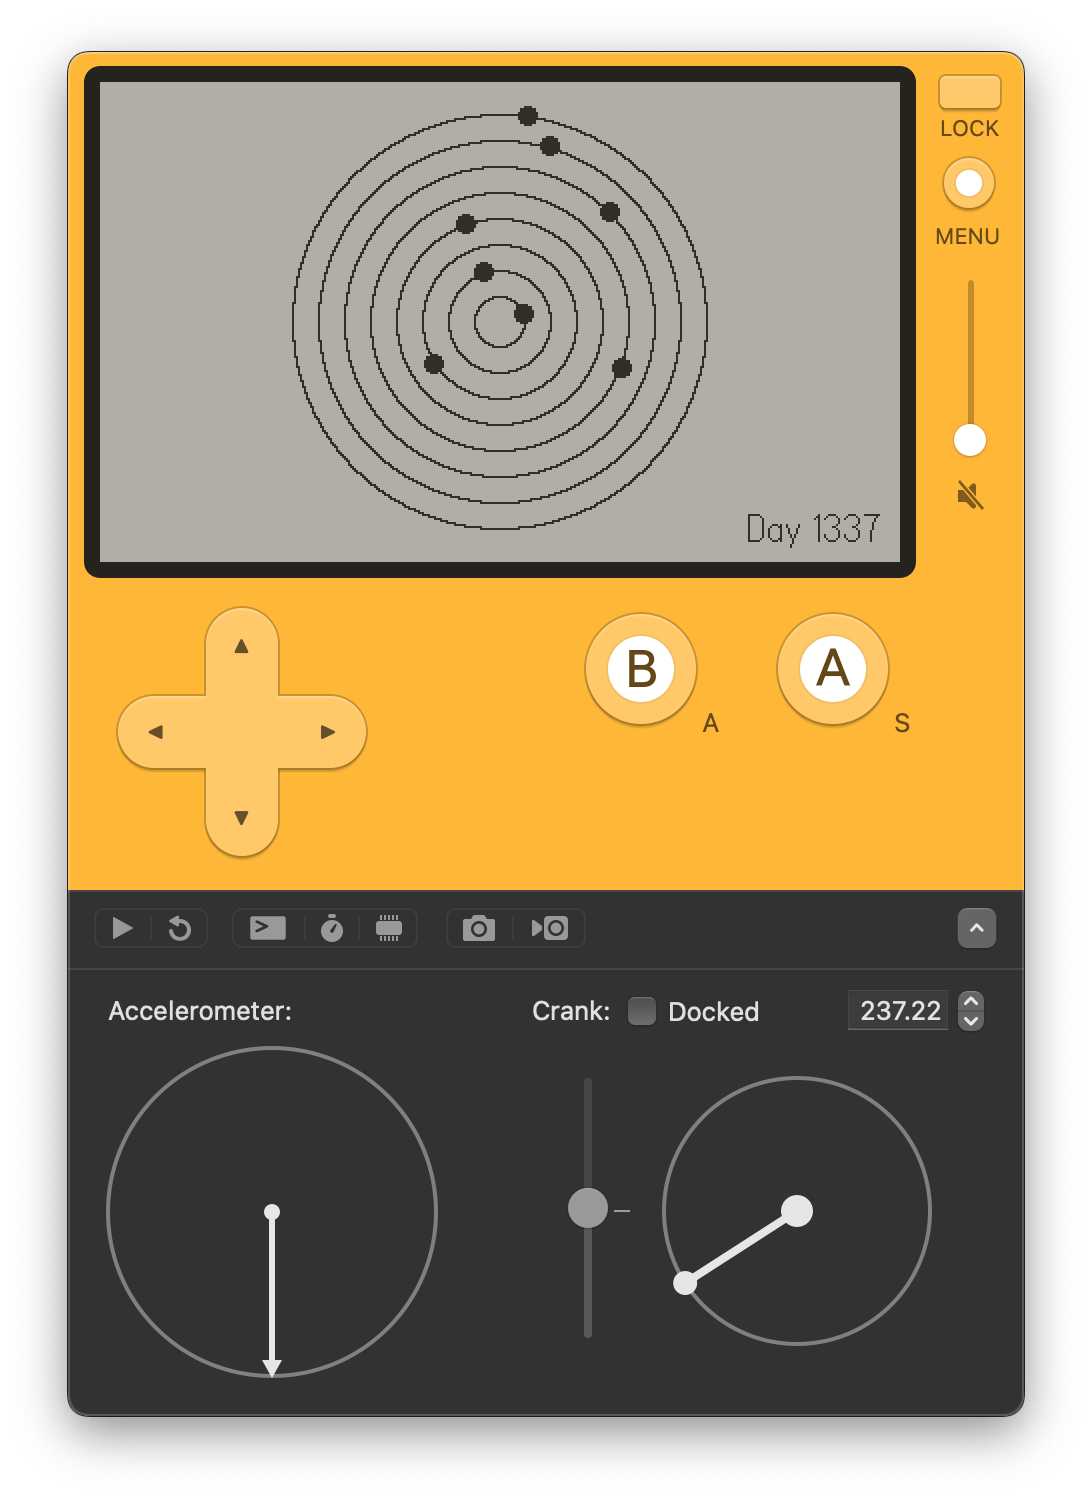
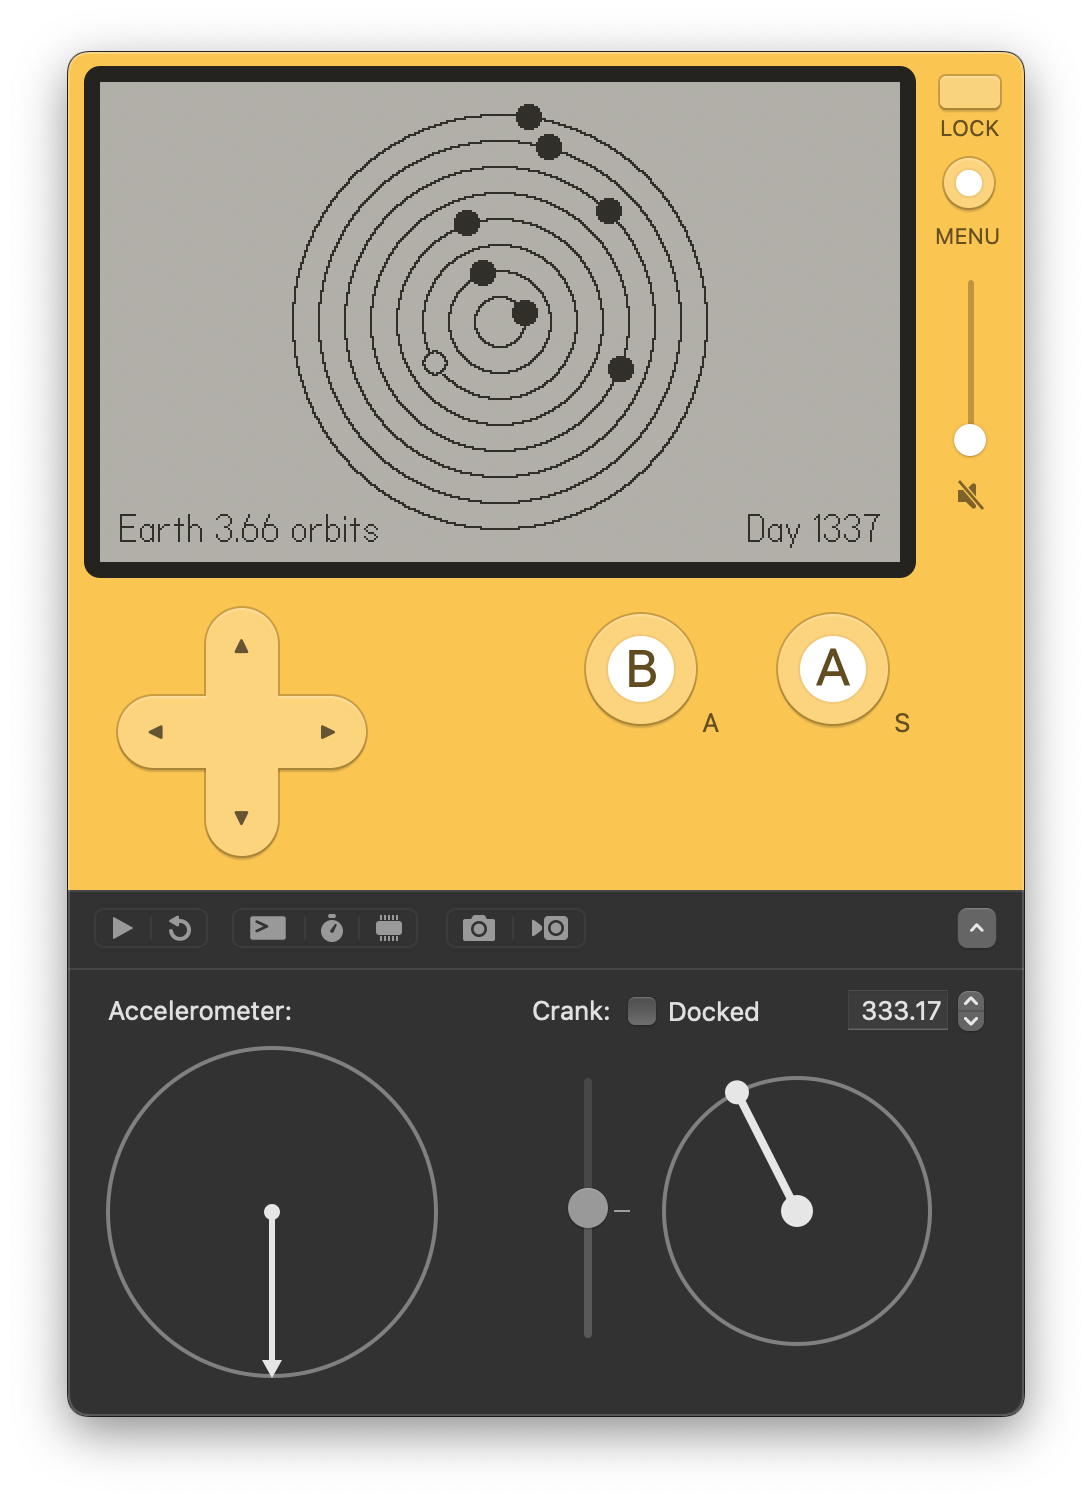
Added planet selection and number of revolutions

diff --git a/README.md b/README.md
@@ -4,12 +4,13 @@
 
 While technically not a game, I managed to make something out of the [Playdate SDK](https://play.date/dev/) while waiting for my device to arrive (hopefully by the end of this year)
 
-Note: If while developing for the [Playdate](https://play.date/) you waste 90% of your time Googling and fighting with Lua's quirks, you are not alone
+Note: If while developing for the [Playdate](https://play.date/) you feel you're wasting 90% of your time Googling and fighting with Lua's quirks, you are not alone
 
 ### Usage
 
-- Launch the game in the Playdate Simulator (or a real device, if you're lucky)
-- Spin the crank to advance the days
-- Press up or down to magnify or shrink the solar system
+- Launch the game in the **Playdate Simulator** (or a real device, if you're lucky)
+- Spin the **crank** to **advance the days**
+- Press **up** or **down** to **magnify** or **shrink** the solar system
+- Press **left** or **right** to **change planet** and display its **number of revolutions**
 
 ![Screenshot of the game](screenshot.png)
